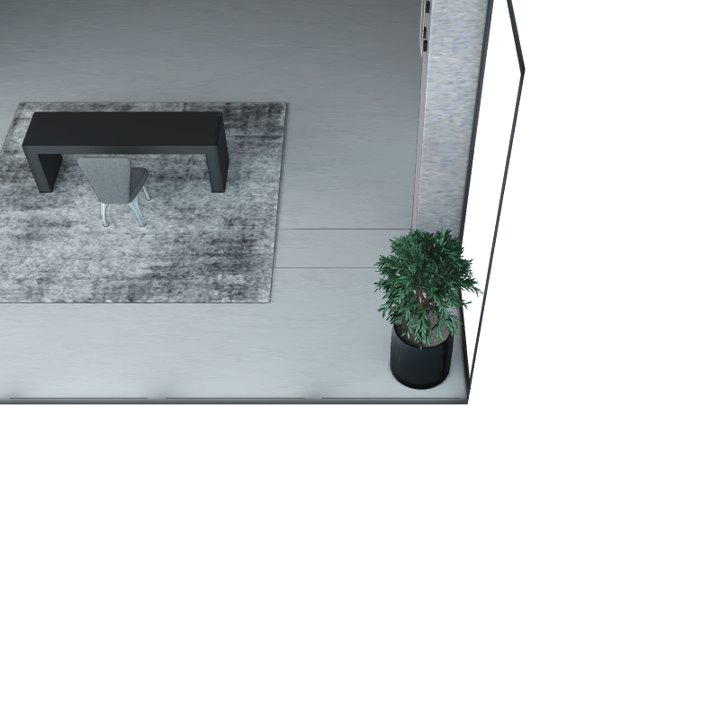
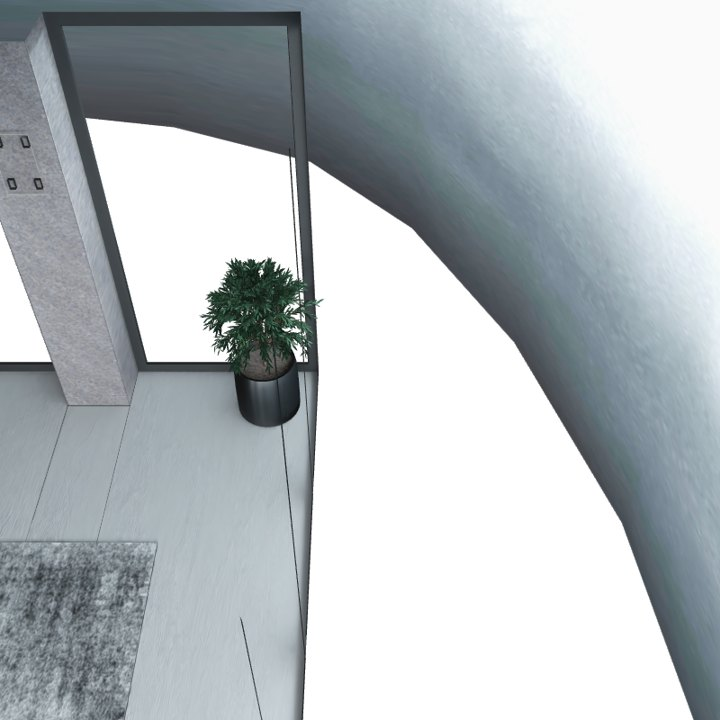
Pick office frames that actually show the room
The evenly-spaced sample landed on low-elevation frames that read as
wall and window close-ups. Selecting from the top elevation bands
instead, spread across azimuth, shows the space the way the classroom
gallery does. Also names the white backdrop in the frames, since it is
what the reflection streaks came from.

diff --git a/index.html b/index.html
@@ -583,6 +583,12 @@
     </div>
 
     <h3 class="reveal" style="margin-top:28px;"><span class="ko">오피스 공간 학습 프레임 (200장 중 8장)</span><span class="en">Office training frames (8 of 200)</span></h3>
+    <div class="prose reveal" style="margin-bottom:16px;">
+      <p>
+        <span class="ko">프레임마다 크게 보이는 흰 곡면은 원본 3D 모델에 포함된 배경 시클로라마입니다. 유리 너머로 비치는 이 배경이 뒤에 설명할 반사 스트릭의 출처이기도 합니다.</span>
+        <span class="en">The large white curve in each frame is the backdrop cyclorama that ships with the source 3D model. Seen through the glass, it is also where the reflection streaks described above came from.</span>
+      </p>
+    </div>
     <div class="gallery reveal">
       <img src="assets/modern_office_input_01.jpg" alt="Modern office render frame 1" loading="lazy">
       <img src="assets/modern_office_input_02.jpg" alt="Modern office render frame 2" loading="lazy">
